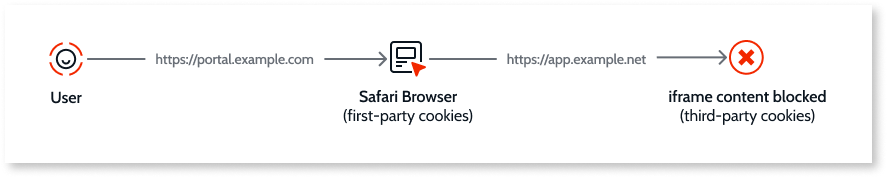
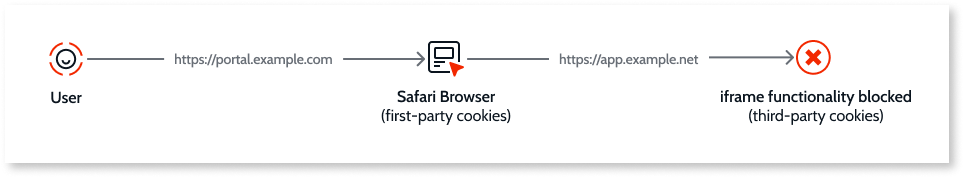
[TK-5128] updated graphics

diff --git a/src/enterprise/troubleshooting/safari-browser-and-iframes.md b/src/enterprise/troubleshooting/safari-browser-and-iframes.md
@@ -1,11 +1,15 @@
+---
+tags: runtime-mobileandreactiveweb;  
+summary: Known issue with Safari browser blocking third-party cookies in iframes by default.
+---
 # Known issue - Safari browser blocks OutSystems apps in iframes
 
 With the [version 2.3](https://webkit.org/blog/9521/intelligent-tracking-prevention-2-3/) release of Apple’s Webkit Intelligent Tracking Prevention (ITP) in 2017, the Safari browser blocks all cookies for cross-site resources by default. This means that users of Safari on iOS 13 and iPadOS beta, and Safari 13 on macOS, cannot access a reactive **OutSystems** app  that is hosted on a different domain which is embedded in an iframe element.
 
 An example of this behavior is shown below:
 
-1. An end-user logs into a portal page `https://portal.example.com` which has authentication mechanisms to create first-party cookies.
-1. An **OutSystems** app in an HTML iframe `https://app.example.net`, which is on a different domain, attempts to create third-party cookies. The Safari browser blocks all access to the domain/application that is consuming the first party cookies. The content in the iframe is not rendered.
+1. An end-user logs into a portal page (`https://portal.example.com`) which has authentication mechanisms to create first-party cookies.
+1. An **OutSystems** app in an HTML iframe (`https://app.example.net`), which is on a different domain, attempts to create third-party cookies. The Safari browser blocks these cookies and the content in the iframe does not behave as expected.
 
 ![Safari blocks iframe from 3rd party app](images/safari-blocks-iframe-diag.png)
 
@@ -40,20 +44,21 @@ For more information about implementing this solution see the following document
 
 A second method relies on Apple’s Webkit [Storage Access API](https://webkit.org/blog/11545/updates-to-the-storage-access-api/) that protects end-user privacy and prevents cross-site request forgeries by asking users to consent to giving access to their cookies from one domain to another.
 
-The following workflow uses Storage Access API as follows:
+The following workflow provides a natural experience with minimum friction for a first-time users of a portal page (`https://portal.example.com`) with an app (`https://app.example.net`) embedded in an iframe.
 
-1. A navigation/redirect moves users from a portal page `https://portal.example.com` to the **OutSystems** app `https://app.example.net` in the iframe.
-1. The user interacts with the **OutSystems** app as the first party. The example shown in the illustration prompts the user to log in and then accept the use of cookies. Once this is done, the browser knows that the user has seen and used the site. 
-1. A first-party cookie is created by the third-party app. This establishes the website in the iframe as visited for the purposes of the underlying Storage Access API cookie policy.
+1. The user accesses the portal page (`https://portal.example.com`).
+1. A script checks if the browser supports Storage Access API and if storage access has been requested.
+1. If no cookie for storage access has been created, the user is directed to (`https://app.example.net`) in the iframe.
+1. The user interacts with the iframe app as the first party and establishes it as visited for the purposes of the underlying Storage Access API cookie policy. For this session, and during every subsequent visit, the content in the iframe behaves as expected.
+1. The user is then forwarded to the portal page (`https://portal.example.com`).
 
 ![Safari allows iframe from 3rd party app](images/safari-allows-iframe-diag.png)
 
-
-Designers may use the following guidelines as a basis for designing a natural end-user workflow that presents minimal friction using Storage Access API.
+Designers may use the following code snippets to implement a solution based on Storage Access API.
 
 <div class="info" markdown="1">
 
-Change URLs in the code snippets to reflect the actual project addresses. 
+Change URLs to reflect actual project addresses. 
 
 </div>
 
@@ -61,7 +66,6 @@ Change URLs in the code snippets to reflect the actual project addresses.
 #### Portal page
 
 Include the following elements on the portal page (`https://portal.example.com`):
-
 
 
 * A sandbox within the iframe element. Sample text is shown below: 
@@ -91,30 +95,8 @@ Include the following elements on the portal page (`https://portal.example.com`)
     }
  <script>
 ```
-
-
-
 #### iframe app
 
 The hosted **OutSystems** app in the iframe element (`https://app.example.net`) should begin with a mechanism for the user to authorize the use of cookies.
-
-
-#### Workflow
-
-When the user goes to the portal page (`https://portal.example.com]`) the following happens:
-
-
-
-1. The script checks that the browser supports Storage Access API, meaning that the user is on the Safari browser. Cookie properties are set. The user is then sent to the login screen in the **OutSystems** app (`https://app.example.net`) hosted in an iframe of the portal.
-1. If no cookies have been previously created for the app in the iframe the user is asked to give consent. 
-
-    <div class="info" markdown="1">
-
-    If consent had been given on a previous visit, only a **Continue** button appears. 
-
-    </div>
-
-1. Once consent is given, the consent button is hidden and the **Log in** button is shown.
-1. The user logs in and is directed to the portal application. The iframe app is now functional.
 
 See [Introducing Storage Access API](https://webkit.org/blog/8124/introducing-storage-access-api/) for a detailed explanation about implementing this solution.
